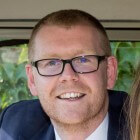
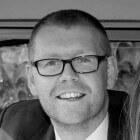
Convert biopic images to greyscale
On the iPad 2 (running iOs 8.1), the CSS filter property requires the -webkit-
prefix. Rather than rely on prefixes, and extra load on the CPU (especially for
low power mobile devices), easier to manually generate a greyscale image and
bypass the CSS filter altogether

diff --git a/css/style.css b/css/style.css
@@ -64,7 +64,7 @@ a {
   width: 100%;
   background: #e9e9e9;
   border-bottom: 1px solid #333;
-  color: #444444;
+  color: #444;
   height: 4em;
   padding: 1em;
   position: fixed;
@@ -430,7 +430,6 @@ article .responsive-img-container {
 
   .biopic {
     display: block;
-    filter: grayscale(100%);
   }
 
   .headline {
